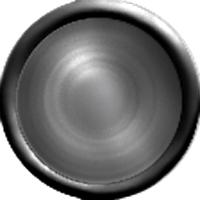
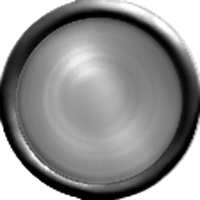
Symbol font measurments (margin/fontsize) now scaled by font size, this requires all symbol files to change (or you get really large margins); Symbol fonts now support stretching/compressing of text; Made the default symbols of mana-future lighter (compare with real cards); Use sort_text instead of 
git-svn-id: svn://svn.code.sf.net/p/magicseteditor/code/trunk@643 0fc631ac-6414-0410-93d0-97cfa31319b6

diff --git a/src/data/symbol_font.cpp b/src/data/symbol_font.cpp
@@ -268,33 +268,39 @@ void SymbolFont::drawWithText(RotatedDC& dc, const RealRect& rect, double font_s
 	// 2. draw text
 	if (!text_font) return;
 	// subtract margins from size
-	sym_rect.x      += text_margin_left;
-	sym_rect.y      += text_margin_top;
-	sym_rect.width  -= text_margin_left + text_margin_right;
-	sym_rect.height -= text_margin_top  + text_margin_bottom;
+	sym_rect.x      += font_size * text_margin_left;
+	sym_rect.y      += font_size * text_margin_top;
+	sym_rect.width  -= font_size * (text_margin_left + text_margin_right);
+	sym_rect.height -= font_size * (text_margin_top  + text_margin_bottom);
 	// setup text, shrink it
-	double size = text_font->size; // TODO : incorporate shrink factor?
+	double size = font_size * text_font->size;
+	double stretch = 1.0;
 	RealSize ts;
 	while (true) {
 		if (size <= 0) return; // text too small
 		dc.SetFont(*text_font, size / text_font->size);
 		ts = dc.GetTextExtent(text);
-		if (ts.width <= sym_rect.width && ts.height <= sym_rect.height) {
-			break; // text fits
-		} else {
-			// text doesn't fit
-			size -= dc.getFontSizeStep();
+		if (ts.height <= sym_rect.height) {
+			if (ts.width <= sym_rect.width) {
+				break; // text fits
+			} else if (ts.width * text_font->max_stretch <= sym_rect.width) {
+				stretch = sym_rect.width / ts.width;
+				ts.width = sym_rect.width; // for alignment
+				break;
+			}
 		}
+		// text doesn't fit
+		size -= dc.getFontSizeStep();
 	}
 	// align text
 	RealPoint text_pos = align_in_rect(text_alignment, ts, sym_rect);
 	// draw text
 	if (text_font->hasShadow()) {
 		dc.SetTextForeground(text_font->shadow_color);
-		dc.DrawText(text, text_pos + text_font->shadow_displacement);
+		dc.DrawText(text, text_pos + text_font->shadow_displacement * font_size, 0, 1, stretch);
 	}
 	dc.SetTextForeground(text_font->color);
-	dc.DrawText(text, text_pos);
+	dc.DrawText(text, text_pos, 0, 1, stretch);
 }
 
 Image SymbolFont::getImage(double font_size, const DrawableSymbol& sym) {
@@ -312,33 +318,39 @@ Image SymbolFont::getImage(double font_size, const DrawableSymbol& sym) {
 		RealRect sym_rect(0,0,bmp.GetWidth(),bmp.GetHeight());
 		RotatedDC rdc(dc, 0, sym_rect, 1, QUALITY_AA);
 		// subtract margins from size
-		sym_rect.x      += text_margin_left;
-		sym_rect.y      += text_margin_top;
-		sym_rect.width  -= text_margin_left + text_margin_right;
-		sym_rect.height -= text_margin_top  + text_margin_bottom;
+		sym_rect.x      += font_size * text_margin_left;
+		sym_rect.y      += font_size * text_margin_top;
+		sym_rect.width  -= font_size * (text_margin_left + text_margin_right);
+		sym_rect.height -= font_size * (text_margin_top  + text_margin_bottom);
 		// setup text, shrink it
-		double size = text_font->size; // TODO : incorporate shrink factor?
+		double size = font_size * text_font->size;
+		double stretch = 1.0;
 		RealSize ts;
 		while (true) {
 			if (size <= 0) return def->getImage(*this, font_size); // text too small
 			rdc.SetFont(*text_font, size / text_font->size);
 			ts = rdc.GetTextExtent(sym.text);
-			if (ts.width <= sym_rect.width && ts.height <= sym_rect.height) {
-				break; // text fits
-			} else {
-				// text doesn't fit
-				size -= rdc.getFontSizeStep();
+			if (ts.height <= sym_rect.height) {
+				if (ts.width <= sym_rect.width) {
+					break; // text fits
+				} else if (ts.width * text_font->max_stretch <= sym_rect.width) {
+					stretch = sym_rect.width / ts.width;
+					ts.width = sym_rect.width; // for alignment
+					break;
+				}
 			}
+			// text doesn't fit
+			size -= rdc.getFontSizeStep();
 		}
 		// align text
 		RealPoint text_pos = align_in_rect(text_alignment, ts, sym_rect);
 		// draw text
 		if (text_font->hasShadow()) {
 			rdc.SetTextForeground(text_font->shadow_color);
-			rdc.DrawText(sym.text, text_pos + text_font->shadow_displacement);
+			rdc.DrawText(sym.text, text_pos + text_font->shadow_displacement * font_size, 0, 1, stretch);
 		}
 		rdc.SetTextForeground(text_font->color);
-		rdc.DrawText(sym.text, text_pos);
+		rdc.DrawText(sym.text, text_pos, 0, 1, stretch);
 		// done
 		dc.SelectObject(wxNullBitmap);
 		return bmp.ConvertToImage();

diff --git a/src/gfx/resample_text.cpp b/src/gfx/resample_text.cpp
@@ -43,6 +43,8 @@ void downsample_to_alpha(Image& img_in, Image& img_out) {
 		int w1 = img_in.GetWidth(), w2 = img_out.GetWidth(), h = img_in.GetHeight();
 		int out_fact = (w2 << shift) / w1; // how much to output for 256 input = 1 pixel
 		int out_rest = (w2 << shift) % w1;
+		// make the image 'bolder' to compensate for compressing it
+		int mul = 128 + min(256, 128*w1/(text_scaling*w2));
 		for (int y = 0 ; y < h ; ++y) {
 			int in_rem = out_fact + out_rest;
 			for (int x = 0 ; x < w2 ; ++x) {
@@ -61,7 +63,7 @@ void downsample_to_alpha(Image& img_in, Image& img_out) {
 					in_rem -= out_rem;
 				}
 				// store
-				*out = tot >> shift;
+				*out = top(((tot >> shift) * mul) >> 8);
 				out += 1;
 			}
 		}
@@ -89,6 +91,7 @@ void downsample_to_alpha(Image& img_in, Image& img_out) {
 		int h1 = img_in.GetHeight(), w = img_out.GetWidth();
 		int out_fact = (h << shift) / h1; // how much to output for 256 input = 1 pixel
 		int out_rest = (h << shift) % h1;
+		int mul = 128 + min(256, 128*h1/(text_scaling*h));
 		for (int x = 0 ; x < w ; ++x) {
 			int in_rem = out_fact + out_rest;
 			for (int y = 0 ; y < h ; ++y) {
@@ -107,7 +110,7 @@ void downsample_to_alpha(Image& img_in, Image& img_out) {
 					in_rem -= out_rem;
 				}
 				// store
-				*out = tot >> shift;
+				*out = top(((tot >> shift) * mul) >> 8);
 				out += line_size;
 			}
 			in  = in  - h1 * line_size + 1;

diff --git a/src/util/rotation.cpp b/src/util/rotation.cpp
@@ -131,12 +131,12 @@ RotatedDC::RotatedDC(DC& dc, const Rotation& rotation, RenderQuality quality)
 
 // ----------------------------------------------------------------------------- : RotatedDC : Drawing
 
-void RotatedDC::DrawText  (const String& text, const RealPoint& pos, int blur_radius, int boldness) {
+void RotatedDC::DrawText  (const String& text, const RealPoint& pos, int blur_radius, int boldness, double stretch_) {
 	if (text.empty()) return;
 	if (quality == QUALITY_AA) {
 		RealRect r(pos, GetTextExtent(text));
 		RealRect r_ext = trNoNeg(r);
-		draw_resampled_text(dc, r_ext, stretch(), revX(), revY(), angle, text, blur_radius, boldness);
+		draw_resampled_text(dc, r_ext, stretch_ * stretch(), revX(), revY(), angle, text, blur_radius, boldness);
 	} else if (quality == QUALITY_SUB_PIXEL) {
 		RealPoint p_ext = tr(pos)*text_scaling;
 		double usx,usy;

diff --git a/src/data/font.cpp b/src/data/font.cpp
@@ -15,6 +15,7 @@ Font::Font()
 	, size(1)
 	, underline(false)
 	, scale_down_to(100000)
+	, max_stretch(1.0)
 	, shadow_displacement(0,0)
 	, separator_color(128,128,128)
 	, flags(FONT_NORMAL)
@@ -70,7 +71,7 @@ FontP Font::make(int add_flags, Color* other_color) const {
 }
 
 wxFont Font::toWxFont(double scale) const {
-	int size_i = scale * size;
+	int size_i = to_int(scale * size);
 	int weight_i = flags & FONT_BOLD   ? wxFONTWEIGHT_BOLD  : wxFONTWEIGHT_NORMAL;
 	int style_i  = flags & FONT_ITALIC ? wxFONTSTYLE_ITALIC : wxFONTSTYLE_NORMAL;
 	// make font
@@ -108,6 +109,7 @@ IMPLEMENT_REFLECTION_NO_SCRIPT(Font) {
 	REFLECT(italic_name);
 	REFLECT(color);
 	REFLECT(scale_down_to);
+	REFLECT(max_stretch);
 	REFLECT_N("shadow_displacement_x", shadow_displacement.width);
 	REFLECT_N("shadow_displacement_y", shadow_displacement.height);
 	REFLECT(shadow_color);

diff --git a/src/util/rotation.hpp b/src/util/rotation.hpp
@@ -151,7 +151,7 @@ class RotatedDC : public Rotation {
   
 	// --------------------------------------------------- : Drawing
 	
-	void DrawText  (const String& text,   const RealPoint& pos, int blur_radius = 0, int boldness = 1);
+	void DrawText  (const String& text,   const RealPoint& pos, int blur_radius = 0, int boldness = 1, double stretch = 1.0);
 	/// Draw abitmap, it must already be zoomed!
 	void DrawBitmap(const Bitmap& bitmap, const RealPoint& pos);
 	/// Draw an image using the given combining mode, the image must already be zoomed!

diff --git a/src/data/font.hpp b/src/data/font.hpp
@@ -39,6 +39,7 @@ class Font : public IntrusivePtrBase<Font> {
 	Scriptable<String> weight, style;		///< Weight and style of the font (bold/italic)
 	Scriptable<bool>   underline;			///< Underlined?
 	double             scale_down_to;		///< Smallest size to scale down to
+	double             max_stretch;			///< How much should the font be stretched before scaling down?
 	Scriptable<Color>  color;				///< Color to use
 	Scriptable<Color>  shadow_color;		///< Color for shadow
 	RealSize           shadow_displacement;	///< Position of the shadow
